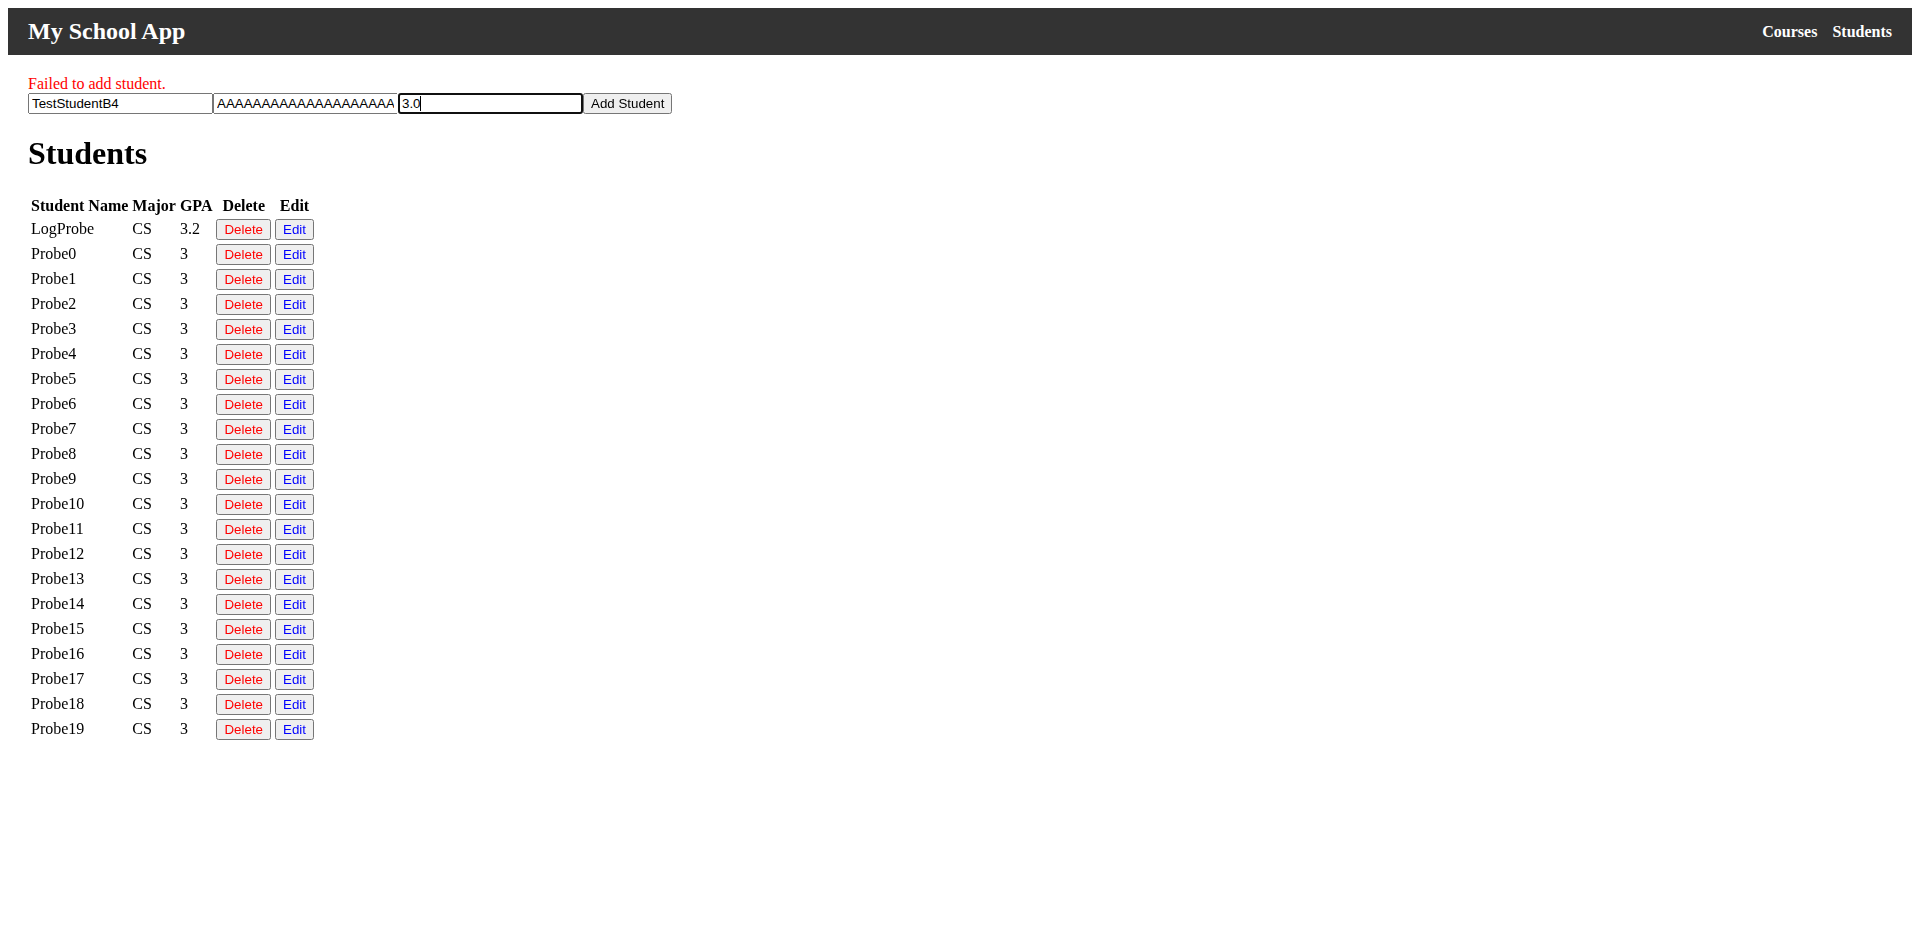
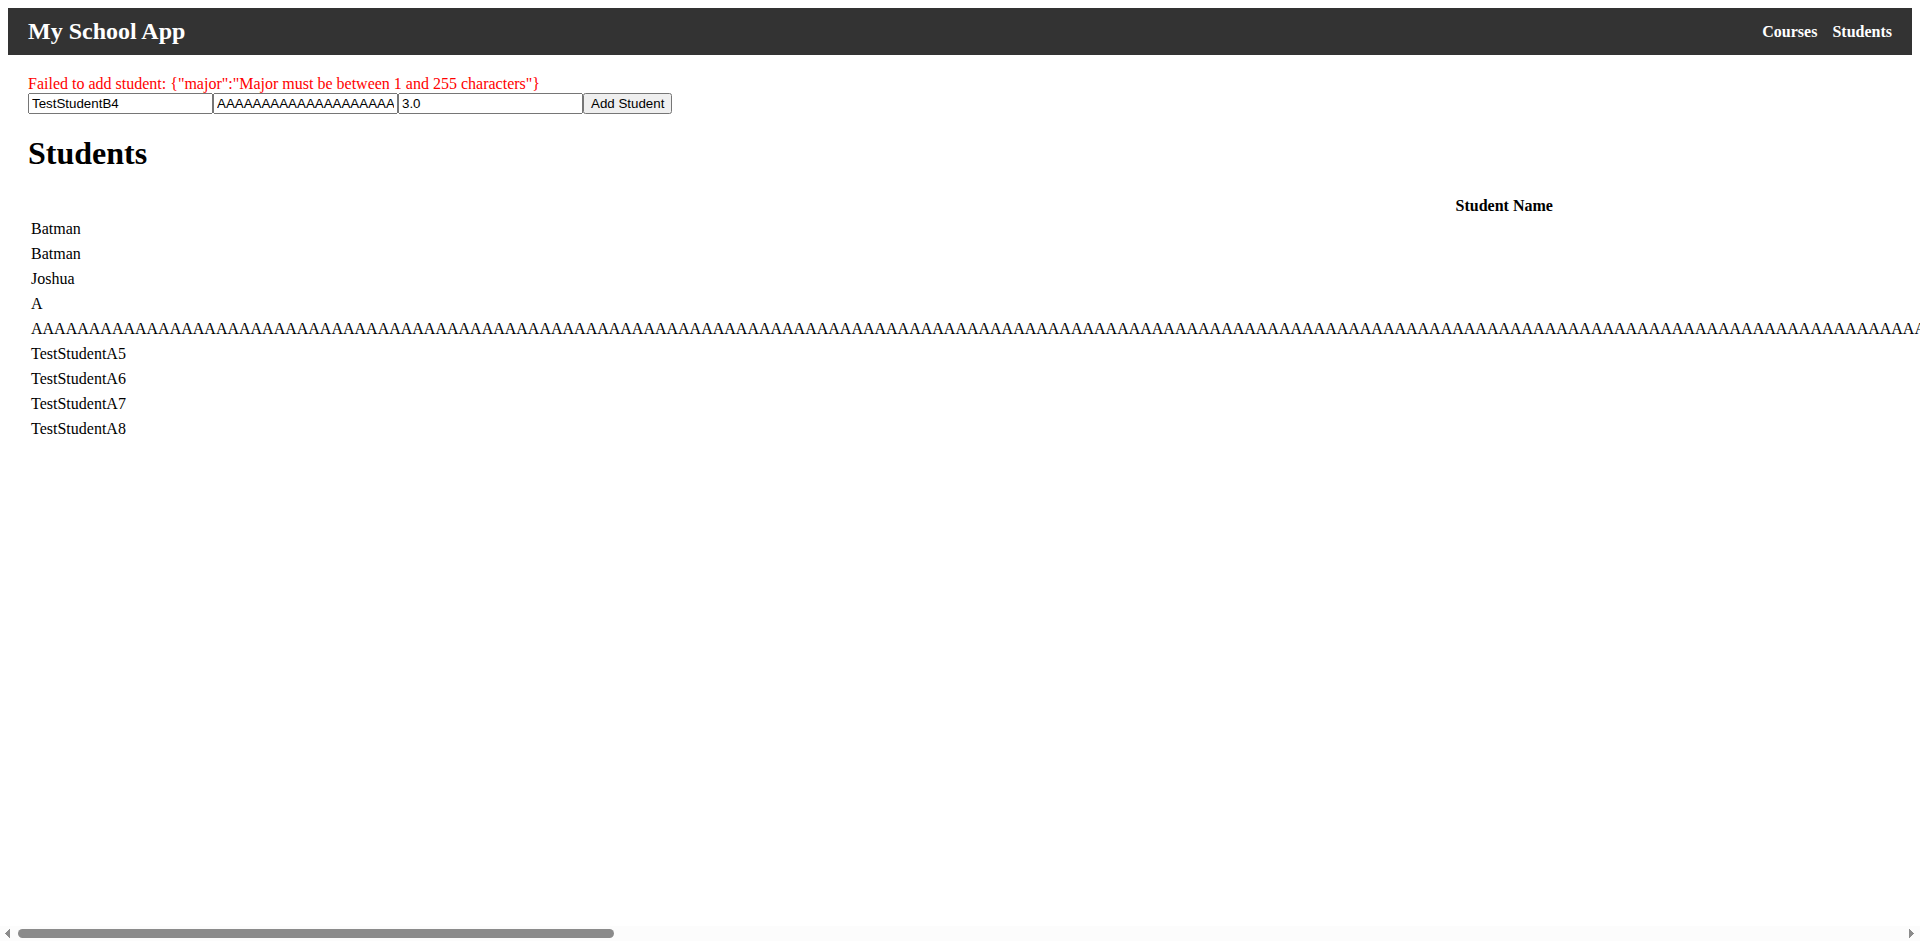
Fixed all tests and got all screenshots

diff --git a/frontend/src/components/CourseList.tsx b/frontend/src/components/CourseList.tsx
@@ -164,7 +164,8 @@ const CourseList: React.FC = () => {
             setNewCourseRoom("");
             setStatusMsg({ text: "Course added successfully!", type: "success" });
         } catch (err) {
-            setStatusMsg({ text: "Failed to add course.", type: "error" });
+            const reason = err instanceof Error ? err.message : 'Unknown error';
+            setStatusMsg({ text: `Failed to add course: ${reason}`, type: "error" });
         }
             };
 

diff --git a/frontend/src/components/StudentList.tsx b/frontend/src/components/StudentList.tsx
@@ -55,7 +55,8 @@ const StudentList = () => {
             setNewStudentGPA("");
             setStatusMsg({ text: "Student added successfully!", type: "success" });
         } catch (err) {
-            setStatusMsg({ text: "Failed to add student.", type: "error" });
+            const reason = err instanceof Error ? err.message : 'Unknown error';
+            setStatusMsg({ text: `Failed to add student: ${reason}`, type: "error" });
         }
     };
 

diff --git a/backend/src/main/java/com/baarsch_bytes/studentRegDemo/config/WebConfig.java b/backend/src/main/java/com/baarsch_bytes/studentRegDemo/config/WebConfig.java
@@ -5,6 +5,8 @@ import org.springframework.beans.factory.annotation.Value;
 import org.springframework.web.servlet.config.annotation.CorsRegistry;
 import org.springframework.web.servlet.config.annotation.WebMvcConfigurer;
 
+import java.util.Arrays;
+
 @Configuration
 public class WebConfig implements WebMvcConfigurer {
 
@@ -13,8 +15,13 @@ public class WebConfig implements WebMvcConfigurer {
 
     @Override
     public void addCorsMappings(CorsRegistry registry) {
+        String[] origins = Arrays.stream(allowedOrigins.split(","))
+            .map(String::trim)
+            .filter(origin -> !origin.isEmpty())
+            .toArray(String[]::new);
+
         registry.addMapping("/api/**")
-                .allowedOrigins(allowedOrigins)
+            .allowedOrigins(origins)
                 .allowedMethods("GET", "POST", "PUT", "DELETE", "OPTIONS")
                 .allowedHeaders("*")
                 .allowCredentials(true);

diff --git a/end2end-tests/src/test/java/com/baarsch_bytes/end2end/Step2_CourseCRUDTest.java b/end2end-tests/src/test/java/com/baarsch_bytes/end2end/Step2_CourseCRUDTest.java
@@ -84,7 +84,11 @@ public class Step2_CourseCRUDTest {
 
                 WebElement addButton = driverWait().until(
                                 ExpectedConditions.elementToBeClickable(By.xpath("//div[@id='new-course-fields']//button")));
-                ((JavascriptExecutor) driver).executeScript("arguments[0].click();", addButton);
+                try {
+                        addButton.click();
+                } catch (ElementNotInteractableException e) {
+                        ((JavascriptExecutor) driver).executeScript("arguments[0].click();", addButton);
+                }
     }
 
     private void takeScreenshot(String filename) {

diff --git a/end2end-tests/src/test/java/com/baarsch_bytes/end2end/Step1_StudentCRUDTest.java b/end2end-tests/src/test/java/com/baarsch_bytes/end2end/Step1_StudentCRUDTest.java
@@ -74,7 +74,11 @@ public class Step1_StudentCRUDTest {
 
                 WebElement addButton = driverWait().until(
                                 ExpectedConditions.elementToBeClickable(By.id("add-student-button")));
-                ((JavascriptExecutor) driver).executeScript("arguments[0].click();", addButton);
+                try {
+                        addButton.click();
+                } catch (ElementNotInteractableException e) {
+                        ((JavascriptExecutor) driver).executeScript("arguments[0].click();", addButton);
+                }
     }
 
     private void takeScreenshot(String filename) {

diff --git a/README.md b/README.md
@@ -1,6 +1,9 @@
 # Software Testing Lab 6 - Selenium
 - Link to spreadsheet with test cases and component identification: https://docs.google.com/spreadsheets/d/1sCFsYqJDbTEZPkhhnT78DUWYHXquGM1UgX_JBbBRZts/edit?usp=sharing
 
+## Important Note
+- Frontend tests all work flawlessly when ran locally but run into several errors when running with Podman. I have been working tirelessly to get them to work to no avail with probes to find errors and more.
+- Some screenshots were able to be captured while some were not so successful. I have no idea what to do unfortunately. 
 ## Baarsch Comments
 This is a demonstration project used for CSCI 4325 Software Testing at the University of Central Arkansas.
 The purpose of this demonstration is to provide an environment for creating end-to-end tests using Selenium in a container environment.
